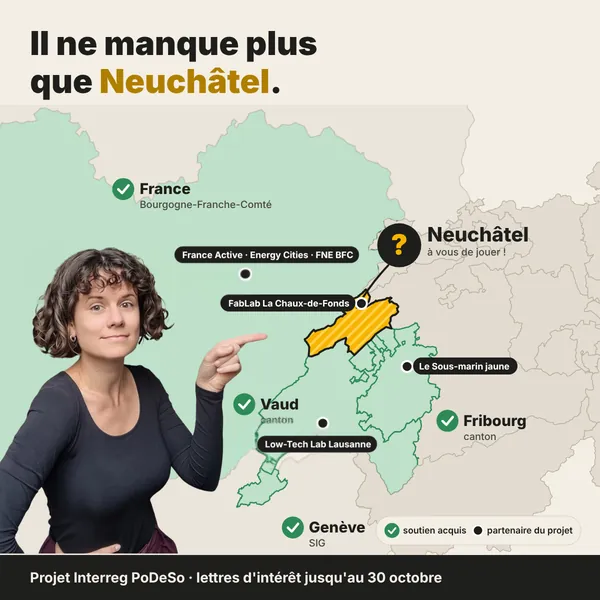
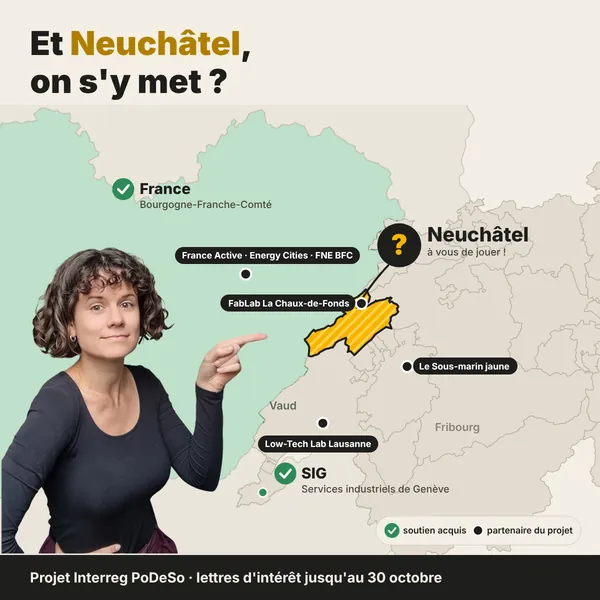
Add files via upload

diff --git a/index.html b/index.html
@@ -3,11 +3,11 @@
 <head>
 <meta charset="utf-8">
 <meta name="viewport" content="width=device-width, initial-scale=1">
-<title>PoDeSo – Il ne manque plus que Neuchâtel</title>
+<title>PoDeSo – Et Neuchâtel, on s'y met ?</title>
 <meta name="description" content="PoDeSo, un projet Interreg France-Suisse pour aider les entreprises neuchâteloises à produire autant avec moins d'énergie et de matières. Téléchargez la lettre d'intérêt.">
-<meta property="og:title" content="PoDeSo – Il ne manque plus que Neuchâtel">
-<meta property="og:description" content="Genève, Vaud, Fribourg et la Bourgogne-Franche-Comté sont à bord. Une lettre d'intérêt suffit, sans aucun engagement.">
-<meta property="og:image" content="https://melaniethms.github.io/podeso-short-page/carte-podeso.webp">
+<meta property="og:title" content="PoDeSo – Et Neuchâtel, on s'y met ?">
+<meta property="og:description" content="Les Services industriels de Genève ont signé, nos partenaires français sont prêts. Les entreprises neuchâteloises peuvent rejoindre le mouvement avec une simple lettre d'intérêt, sans engagement.">
+<meta property="og:image" content="carte-podeso.webp">
 <style>
   :root {
     --bg: #F3EEE4;
@@ -110,16 +110,16 @@
 <main>
   <header>
     <span class="kicker">Projet Interreg France-Suisse · PoDeSo</span>
-    <h1>Il ne manque plus que <em>Neuchâtel</em>.</h1>
-    <p class="lead">Genève, Vaud, Fribourg et la Bourgogne-Franche-Comté sont à bord. Il nous manque les entreprises neuchâteloises. Une lettre d'intérêt suffit, et elle ne vous engage à rien.</p>
+    <h1>Et <em>Neuchâtel</em>, on s'y met ?</h1>
+    <p class="lead">Les Services industriels de Genève ont signé. Nos partenaires français sont prêts. Des ateliers de Lausanne à Besançon s'y mettent. Les entreprises neuchâteloises ont toute leur place dans le mouvement : une lettre d'intérêt suffit, et elle ne vous engage à rien.</p>
     <div class="actions">
       <a class="btn btn-primary" href="https://docs.google.com/document/d/18b6aNJAn6An4qR6101tVieD1nGLjYaGFmoqFI8HRX0I/export?format=docx">Télécharger la lettre (Word)</a>
       <a class="btn btn-ghost" href="mailto:info+interreg@fablab-chaux-de-fonds.ch?subject=PoDeSo%20%E2%80%93%20lettre%20d'int%C3%A9r%C3%AAt">Écrire à Mélanie</a>
     </div>
     <p class="small">Lettres attendues d'ici le 30 octobre 2026.</p>
     <figure>
-      <img src="carte-podeso.webp" srcset="carte-podeso-600.webp 600w, carte-podeso.webp 1200w" sizes="(max-width: 760px) 100vw, 720px" width="1200" height="1200" alt="Carte de la Suisse romande et de la Bourgogne-Franche-Comté : la région française, Genève, Vaud et Fribourg sont cochés en vert, le canton de Neuchâtel est en jaune avec un point d'interrogation.">
-      <figcaption>En vert, les soutiens déjà acquis. En jaune, la pièce qui manque.</figcaption>
+      <img src="carte-podeso.webp" srcset="carte-podeso-600.webp 600w, carte-podeso.webp 1200w" sizes="(max-width: 760px) 100vw, 720px" width="1200" height="1200" alt="Mélanie Thomas pointe du doigt une carte de la Suisse romande et de la Bourgogne-Franche-Comté : la Bourgogne-Franche-Comté et les Services industriels de Genève sont cochés en vert, les partenaires du projet sont marqués à Besançon, Lausanne, Fribourg et La Chaux-de-Fonds, et le canton de Neuchâtel est en jaune avec un point d'interrogation.">
+      <figcaption>En vert, les soutiens déjà acquis. En jaune, là où on vous attend.</figcaption>
     </figure>
   </header>
 
@@ -191,10 +191,9 @@
         <h3>Soutiens déjà annoncés</h3>
         <ul>
           <li><span class="tick">✓</span>Services industriels de Genève</li>
-          <li><span class="tick">✓</span>Canton de Vaud</li>
-          <li><span class="tick">✓</span>Canton de Fribourg</li>
           <li><span class="tick">✓</span>Côté français, partenariat complet</li>
-          <li>Canton de Neuchâtel et ses entreprises : <strong>à vous de jouer</strong></li>
+          <li>Cantons : démarches en cours</li>
+          <li>Entreprises neuchâteloises : <strong>à vous de jouer</strong></li>
         </ul>
       </div>
     </div>
